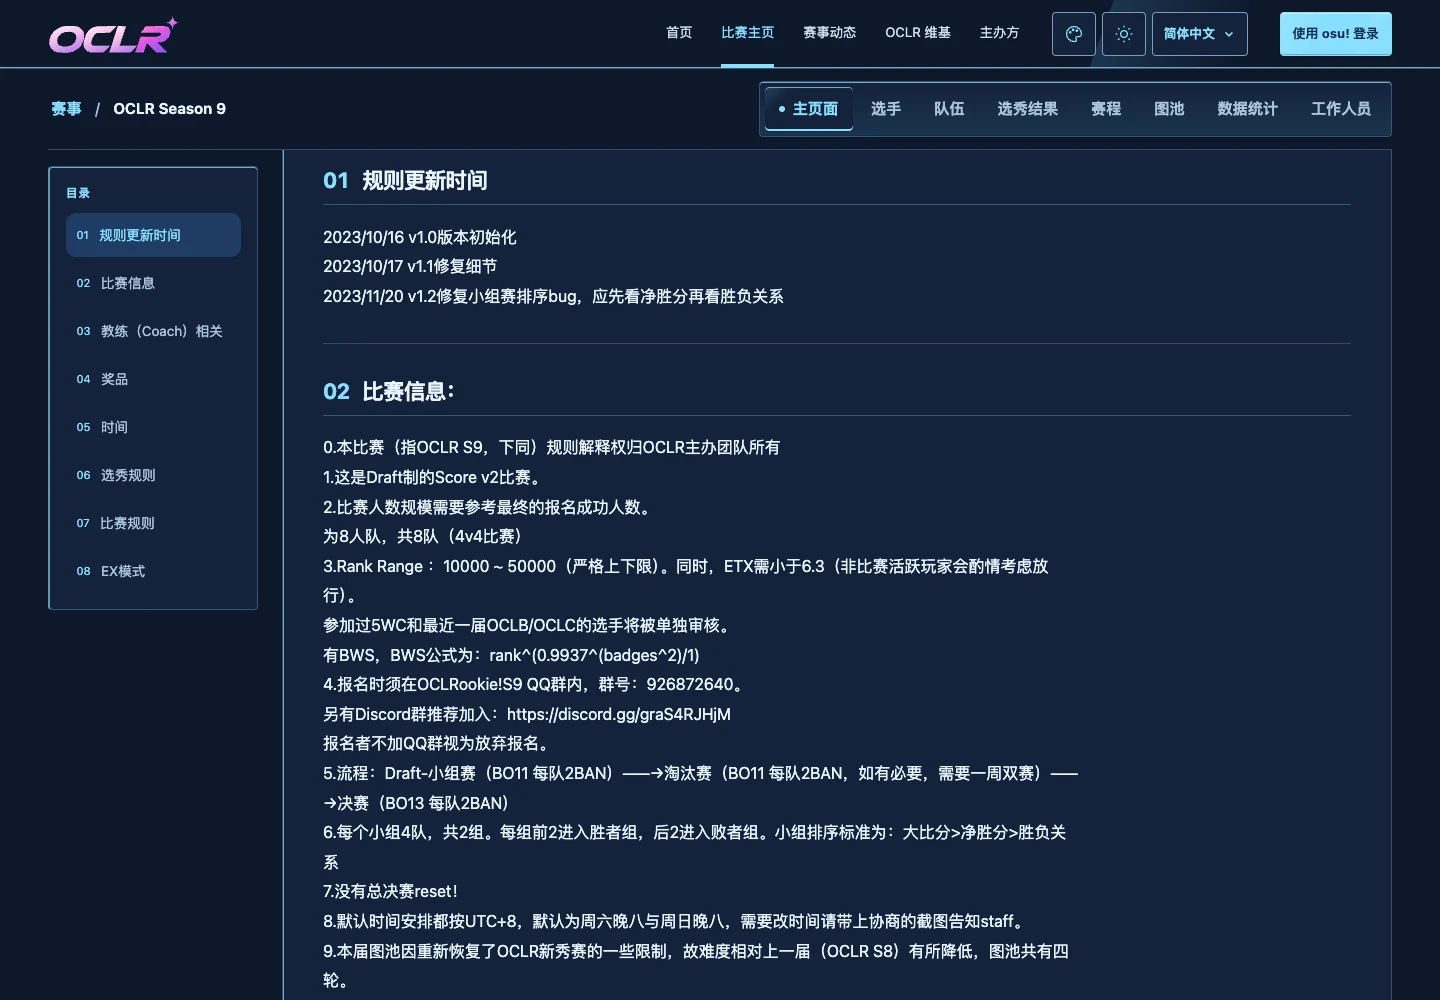
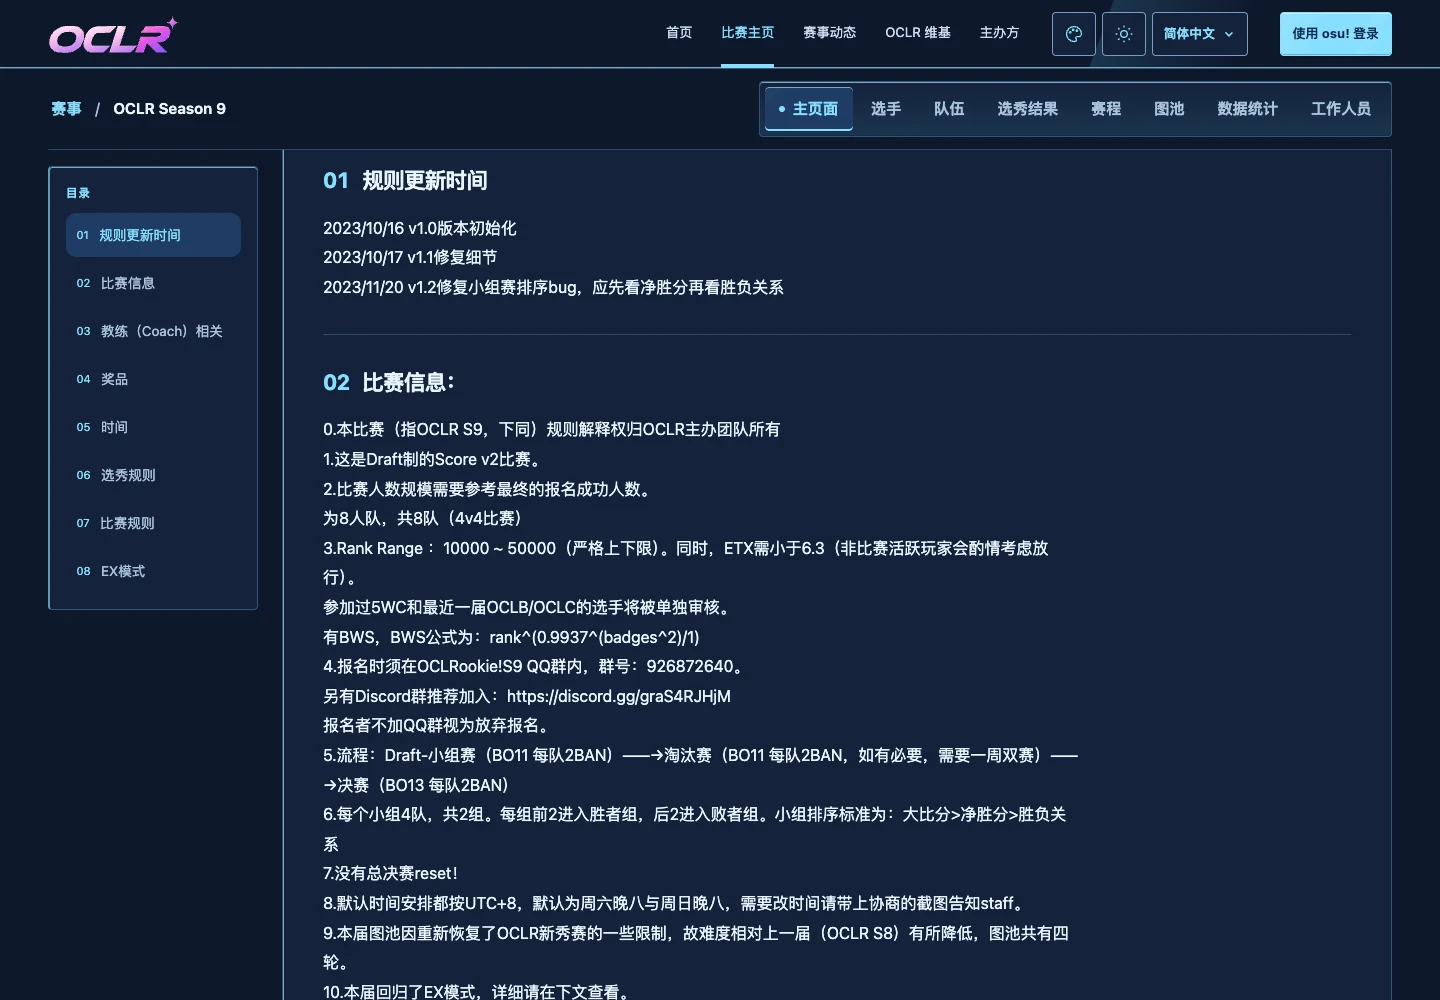
design(s9): polish Cirno integration and icy reading hierarchy (#196)

Changed region(s): [[0.2188, 0.372, 0.75, 1.0], [0.2188, 0.217, 0.5625, 0.31], [0.5312, 0.062, 0.5938, 0.155]]

diff --git a/docs/design/season-themes/s9.css b/docs/design/season-themes/s9.css
@@ -136,7 +136,7 @@ html[data-s9-preview]
 /* Crystal material uses one top-left light source. Fine veins and caustics
  * stay at the perimeter; text retains an opaque, quiet reading surface. */
 html[data-s9-preview] .themed-site {
-  --fairy-wings: url("./s9/fairy-wings.svg");
+  --ice-crystal: url("./s9/crystal-etching.svg");
   --cirno-portrait: url("./s9/cirno-ice-fairy.webp");
   --fairy-ribbon: #b23b55;
   --ice-frost: url("./s9/frost-rim.svg");
@@ -155,7 +155,7 @@ html[data-s9-preview] .themed-site {
       top left / 24px 24px no-repeat,
     linear-gradient(315deg, var(--ice-etch) 0 12px, transparent 12.5px)
       bottom right / 24px 24px no-repeat,
-    linear-gradient(180deg, var(--ice-etch), transparent 12px),
+    linear-gradient(180deg, var(--ice-etch), transparent 24px),
     var(--site-surface);
   --ice-panel-depth:
     inset 0 1px 0 var(--ice-rim-bright),
@@ -184,31 +184,39 @@ html[data-s9-preview] .themed-site .site-header {
   box-shadow: inset 0 -1px 0 var(--ice-rim-bright), 0 2px 8px -6px var(--ice-shadow);
 }
 html[data-s9-preview] .themed-site .page-heading {
-  min-height: 192px;
+  min-height: 176px;
   padding-bottom: 2rem;
   border-bottom: 1px solid var(--ice-rim);
   background:
-    var(--fairy-wings) right center / 480px 200px no-repeat,
-    radial-gradient(ellipse at 100% 100%, var(--ice-etch), transparent 40%);
+    var(--ice-crystal) right 320px center / 72px 72px no-repeat,
+    radial-gradient(ellipse at 90% 65%, var(--ice-etch), transparent 48%);
 }
 html[data-s9-preview] .themed-site .page-heading::before {
   content: "";
   position: absolute;
-  inset: 0 20px 0 auto;
-  width: min(42%, 340px);
+  inset: 4px 24px 4px auto;
+  width: min(42%, 320px);
   background: var(--cirno-portrait) right center / contain no-repeat;
+  mask-image: linear-gradient(180deg, #000 0 80%, transparent 100%);
   pointer-events: none;
+}
+html[data-s9-preview] .themed-site .page-heading > :is(h1, p) {
+  max-width: calc(100% - 352px);
+}
+html[data-s9-preview] .themed-site .page-heading h1 {
+  letter-spacing: -.035em;
+  line-height: 1.2;
 }
 html[data-s9-preview] .themed-site .page-heading::after {
   content: "";
   position: absolute;
   inset: auto 0 -1px;
-  height: 8px;
+  height: 4px;
   background: var(--ice-frost) right top / 480px 32px no-repeat;
   mask-image: linear-gradient(90deg, transparent 55%, #000 85%);
   border-bottom: 1px solid var(--ice-rim-bright);
   transform: scaleY(-1);
-  opacity: .7;
+  opacity: .45;
   pointer-events: none;
 }
 html[data-s9-preview] .themed-site .archive-counts {
@@ -223,14 +231,16 @@ html[data-s9-preview] .themed-site .archive-counts {
 html[data-s9-preview] .themed-site .archive-counts::before {
   content: "";
   position: absolute;
-  inset: -4px 24px auto auto;
-  width: 20px;
-  height: 9px;
+  inset: 0 24px auto auto;
+  width: 16px;
+  height: 7px;
   background: var(--fairy-ribbon);
   clip-path: polygon(0 0, 45% 35%, 55% 35%, 100% 0, 100% 100%, 55% 65%, 45% 65%, 0 100%);
   pointer-events: none;
 }
 html[data-s9-preview] .themed-site .archive-counts > div {
+  align-items: center;
+  padding-block: 14px;
   border-bottom-color: var(--ice-rim);
 }
 html[data-s9-preview] .themed-site .archive-counts > div:first-child {
@@ -239,7 +249,15 @@ html[data-s9-preview] .themed-site .archive-counts > div:first-child {
 html[data-s9-preview] .themed-site .archive-counts > div:last-child {
   border-bottom: 0;
 }
+html[data-s9-preview] .themed-site .archive-counts dt {
+  color: var(--site-muted);
+  font-size: .9rem;
+  font-weight: 500;
+  line-height: 1.6;
+}
 html[data-s9-preview] .themed-site .archive-counts dd {
+  font-size: 2.25rem;
+  line-height: 1.1;
   letter-spacing: -.035em;
 }
 html[data-s9-preview] .themed-site .public-tournament .tournament-navigation nav {
@@ -253,7 +271,7 @@ html[data-s9-preview] .themed-site .public-tournament .tournament-navigation nav
 html[data-s9-preview] .themed-site .public-tournament .tournament-navigation a[aria-current] {
   background:
     linear-gradient(135deg, var(--ice-facet), transparent 20px),
-    var(--site-surface);
+    var(--site-tint);
   box-shadow:
     inset 0 1px 0 var(--ice-rim-bright),
     inset 0 -2px 0 var(--site-accent),
@@ -271,8 +289,8 @@ html[data-s9-preview] .themed-site :is(.rules-desktop-contents, .rules-mobile-co
   box-shadow: inset 0 1px 0 var(--ice-rim-bright);
 }
 html[data-s9-preview] .themed-site .rules-article h2 {
-  padding-bottom: 8px;
-  border-bottom: 1px solid var(--ice-rim);
+  padding-bottom: 0;
+  border-bottom: 0;
 }
 html[data-s9-preview] .themed-site :is(input, select, textarea) {
   background: var(--ice-well);
@@ -297,20 +315,23 @@ html[data-s9-preview] .themed-site .map-slot-badge {
   border-radius: 2px;
   box-shadow: 0 1px 2px var(--ice-contact);
 }
-@media (max-width: 760px) {
+@media (max-width: 1100px) {
   html[data-s9-preview] .themed-site .page-heading {
     min-height: 0;
-    padding-bottom: 144px;
-    background-size: 260px 128px, auto;
-    background-position: left bottom, center;
+    padding-bottom: 128px;
+    background-size: 48px 48px, auto;
+    background-position: right 200px bottom 40px, center;
   }
   html[data-s9-preview] .themed-site .page-heading::before {
     inset: auto 8px 8px auto;
-    width: 200px;
-    height: 128px;
+    width: 176px;
+    height: 112px;
+  }
+  html[data-s9-preview] .themed-site .page-heading > :is(h1, p) {
+    max-width: none;
   }
   html[data-s9-preview] .themed-site .page-heading::after {
-    opacity: .5;
+    opacity: .35;
   }
   html[data-s9-preview] .themed-site .archive-counts {
     padding-inline: 16px;

diff --git a/docs/design/season-themes/s9.html b/docs/design/season-themes/s9.html
@@ -77,7 +77,7 @@
     <header>
       <h1>S9 · 最新應用 UI 設計對照</h1>
       <p>
-        圖片直接來自 main <code>e40db52</code> 的實際頁面。S9 僅套用候選
+        圖片直接來自 main <code>cc366f2</code> 的實際頁面。S9 僅套用候選
         CSS；頁面元件、內容與導覽結構保持一致。
       </p>
       <p>

diff --git a/docs/design/season-themes/s9/DESIGN.md b/docs/design/season-themes/s9/DESIGN.md
@@ -2,11 +2,11 @@
 
 追蹤：[#196](https://github.com/OCLR-dev/OCLR-website/issues/196)。2026-10-26 依主辦方要求，沿用已合併 #195／PR #362 的方法更新；候選設計待審閱，正式接入另行指定。
 
-本輪依主辦方要求引入東方Project 琪露諾（冰妖精）元素，在已確認的無冰框設計上加入角色同人插畫、六片冰翼、藍白服飾與小幅紅色領結點綴。原 S9 主視覺保持完整，實際 UI 範例同步重產。
+本輪延續琪露諾冰妖精方向，精修角色下緣融合、標題留白、雪晶細節、導覽選取與統計層級。角色素材與完整無框原圖維持原樣，實際 UI 範例同步重產。
 
 ## 最新 UI 基準
 
-本版基於 canonical main **`e40db52569804cfde0db885e8028650e96f8ae69`**，直接建置並開啟現有應用，在瀏覽器加入 [S9 候選 CSS](../s9.css) 產圖，不建立另一套頁面 renderer。
+本版基於 canonical main **`cc366f2e80563b3effff6bf25ef8074c6a95258f`**，直接建置並開啟現有應用，在瀏覽器加入 [S9 候選 CSS](../s9.css) 產圖，不建立另一套頁面 renderer。
 
 | 真實路由                   | 保留的實際元件與內容                                                                                                    |
 | -------------------------- | ----------------------------------------------------------------------------------------------------------------------- |
@@ -20,14 +20,14 @@
 
 **以琪露諾的冰妖精形象延伸 S9 冰晶材質：角色、六片冰翼、藍白服飾與紅色領結。** 霜白／鈷藍與薄切面保留，角色只出現在頁面標題區，原主視覺維持無框。資料區與表單延續實色閱讀核心與清楚操作層級。
 
-內容順序沿用目前頁面：主頁標題 → 原圖／五列統計 → 完整規則；圖池與 Admin 保留現有工作內容。手機角色移到標題文字下方的 128px 區域，桌面置於右側；沒有新增 DOM、假 tabs 或操作控制。
+內容順序沿用目前頁面：主頁標題 → 原圖／五列統計 → 完整規則；圖池與 Admin 保留現有工作內容。手機與較窄版面把角色放在標題文字下方的 112px 區域，桌面置於右側；文字區保留獨立寬度；沒有新增 DOM、假 tabs 或操作控制。
 
 冰妖精語彙分工：
 
 - **琪露諾同人插畫**：[透明 WebP](cirno-ice-fairy.webp) 由內建 image_gen 新生成，藍髮、藍色頭蝴蝶結、白色短袖／藍裙、紅色領結、六片冰翼與手上雪晶形成明確識別。[素材、來源與完整提示詞](ARTWORK.md)。
-- **六片冰翼**：自行繪製 [fairy-wings.svg](fairy-wings.svg)，以六個長菱形折光面作標題背景，延續角色身後的冰翼形狀；輪廓只在非閱讀區。
-- **領結點綴**：角色領口的紅色在統計上沿回應為 20×9px 小蝴蝶結。另定義 `--fairy-ribbon`，不修改成功／警告／錯誤或主操作色。
-- **霜邊與薄切面**：保留 [霜邊 SVG](frost-rim.svg) 於標題右端；資料面的角落切面為 10–12px、底沿 1px。目錄保留 2px 冷色邊，控制項維持 4px 幾何與清楚選取底線。
+- **角色與雪晶融合**：角色保留自身六片冰翼，下緣以 CSS 漸隱融入霧光；移除外掛的大型冰翼。以 [細雪晶 SVG](crystal-etching.svg) 作單一小刻紋，桌面 72px、較窄版面 48px。桌面標題高 176px，字距收斂；1100px 以下採上下配置，文字與角色不重疊。
+- **領結點綴**：角色領口的紅色在統計上沿回應為 16×7px 小蝴蝶結，貼齊上沿。另定義 `--fairy-ribbon`，不修改成功／警告／錯誤或主操作色。
+- **霜邊與薄切面**：標題右端的 [霜邊 SVG](frost-rim.svg) 收為 4px 薄刻紋，降低不透明度；資料面頂緣折光漸層延伸至 24px，核心維持實色。標籤 .9rem、數字 2.25rem，列內垂直置中、14px 上下內距。導覽選取使用淡藍底與底線；規則只保留章節分隔線，移除重複的標題底線。
 - **無框原圖**：沿用 `.archive-key-visual` 與 contain，不加冰框、內框、霜層、切面背景、額外內距或陰影。[折光 SVG](ice-facets.svg) 僅用於圖池封面區。
 
 角色素材為 **東方Project 二次創作 · 琪露諾 / Cirno ©上海アリス幻樂団 / ZUN**，圖庫、Issue 與素材文件均保留標註；正式接入時也須在實際三語介面保留同人說明。形象參考與官方指南見 ARTWORK，並未將同人素材表述為官方聯名。
@@ -112,11 +112,11 @@ APP_URL=http://127.0.0.1:3196 DATABASE_URL="$TEST_DATABASE_URL" ADMIN_OSU_IDS=60
 node --import tsx docs/design/season-themes/s9/capture.mjs
 ```
 
-本次使用獨立 loopback PostgreSQL 55496／應用 3196。工具預設核對本版 UI 基準 `e40db52`；未來重產可用 `S9_UI_BASELINE` 指向已核對的完整 commit SHA，仍要求應用來源一致。以上為隔離測試參數，只看圖庫不需要 DB、帳號或伺服器。
+本次使用獨立 loopback PostgreSQL 55496／應用 3196。工具預設核對本版 UI 基準 `cc366f2`；未來重產可用 `S9_UI_BASELINE` 指向已核對的完整 commit SHA，仍要求應用來源一致。以上為隔離測試參數，只看圖庫不需要 DB、帳號或伺服器。
 
 ## 本版檢查與接入邊界
 
-- 已同步最新 main `e40db52`（包含 S10 city pop PR #367），本輪重新通過 Node.js 24 production build。設計差異僅在 S9 候選 CSS／素材／review 產圖工具與文件；S10 成果維持最新 main。
+- 已同步 main `cc366f2`，應用來源與上一輪已通過 Node.js 24 production build 的 `e40db52` 相同，沿用該 build。本輪只精修 review CSS／產圖工具與文件；S10 成果維持最新 main，未重跑無關完整應用回歸。
 - 三個實際路由 × 320／390／768／1440px × 明暗，共 **24 組、24 次 Axe AA 無違規**，無水平溢出或頁面錯誤。[本版報告](verification.json)。
 - 套色前後 DOM／文字保留、五列統計／完整規則、原始 1920×1080 圖片與 contain、手機選單／Escape 焦點、既有 sticky stack 通過。
 - 冰晶材質額外通過明暗 × 320／1440px 的 4 組 forced-colours 檢查：角色／冰翼／霜邊移除、系統色選取可見，320×568px 的選單完整留在視窗內並可由 Escape 回復焦點。

diff --git a/docs/design/season-themes/README.md b/docs/design/season-themes/README.md
@@ -6,7 +6,7 @@
 
 S10 的 `s10.html` 現為**實際截圖對照圖庫**，可切換頁面、尺寸、明暗及最新原有風格／S10 候選。它只在本機展示圖片，不連接 API、DB 或儲存偏好。重新產生 S10 圖片需獨立應用與可丟棄 test DB；見 [S10 設計與重現步驟](s10/DESIGN.md)。S8／S7 的既有靜態樣本保持原樣。
 
-**2026-10-26 S9 琪露諾元素精修**：[#196](https://github.com/OCLR-dev/OCLR-website/issues/196) 以 main `e40db52` 的實際 UI 產圖。保留無框完整原圖、霜白／鈷藍和薄切面，加入琪露諾同人插畫、六片冰翼、藍白服飾與小領結點綴。素材為東方Project二次創作，見 [ARTWORK](s9/ARTWORK.md)；明暗／手機／Admin 圖庫與檢查見 [S9 DESIGN](s9/DESIGN.md)。S10 維持已合併版本。
+**2026-10-26 S9 琪露諾元素精修**：[#196](https://github.com/OCLR-dev/OCLR-website/issues/196) 以 main `cc366f2` 的實際 UI 產圖。保留無框完整原圖與琪露諾同人插畫，精修角色漸隱／霧光融合、小雪晶、較緊湊的標題、選取底色與統計閱讀層級。素材為東方Project二次創作，見 [ARTWORK](s9/ARTWORK.md)；明暗／手機／Admin 圖庫與檢查見 [S9 DESIGN](s9/DESIGN.md)。S10 維持已合併版本。
 
 | Season | 提案                        | 可操作樣本           | 設計規格                | 預覽                                                                                              |
 | ------ | --------------------------- | -------------------- | ----------------------- | ------------------------------------------------------------------------------------------------- |

diff --git a/docs/design/season-themes/s9/ARTWORK.md b/docs/design/season-themes/s9/ARTWORK.md
@@ -5,7 +5,7 @@
 - 成品：[cirno-ice-fairy.webp](cirno-ice-fairy.webp)，1536×1024、361,402 bytes，保留透明 alpha。內建 image_gen 生成，再以 WebP 編碼；沒有裁切、縮放或改字。
 - 表現：藍髮、藍色頭蝴蝶結、白色短袖與藍裙、紅色領結、六片折光冰翼與手上的雪晶。全新生成的同人插畫，不是官方角色素材。
 - 原 S9 主視覺：[thumbnail.png](../../../../public/archive/s9/thumbnail.png) 保留完整 1920×1080，仍為無框 contain；角色插畫只在頁面標題區。
-- 其他裝飾：[fairy-wings.svg](fairy-wings.svg) 為自行繪製的六片冰翼幾何，配合既有霜邊與折光 SVG。
+- 呈現精修：角色檔案保持不變；CSS 僅柔化下緣，與標題霧光融合。配合 [細雪晶](crystal-etching.svg)、既有霜邊與折光 SVG，保留角色自身的六片冰翼。
 - 檢視圖庫、Issue 與本文均標示同人來源。正式接入時，實際三語介面也須保留同人標註。
 - 生成具有隨機性，以下保存本次實際提示詞，不能保證重生逐像素相同。
 
